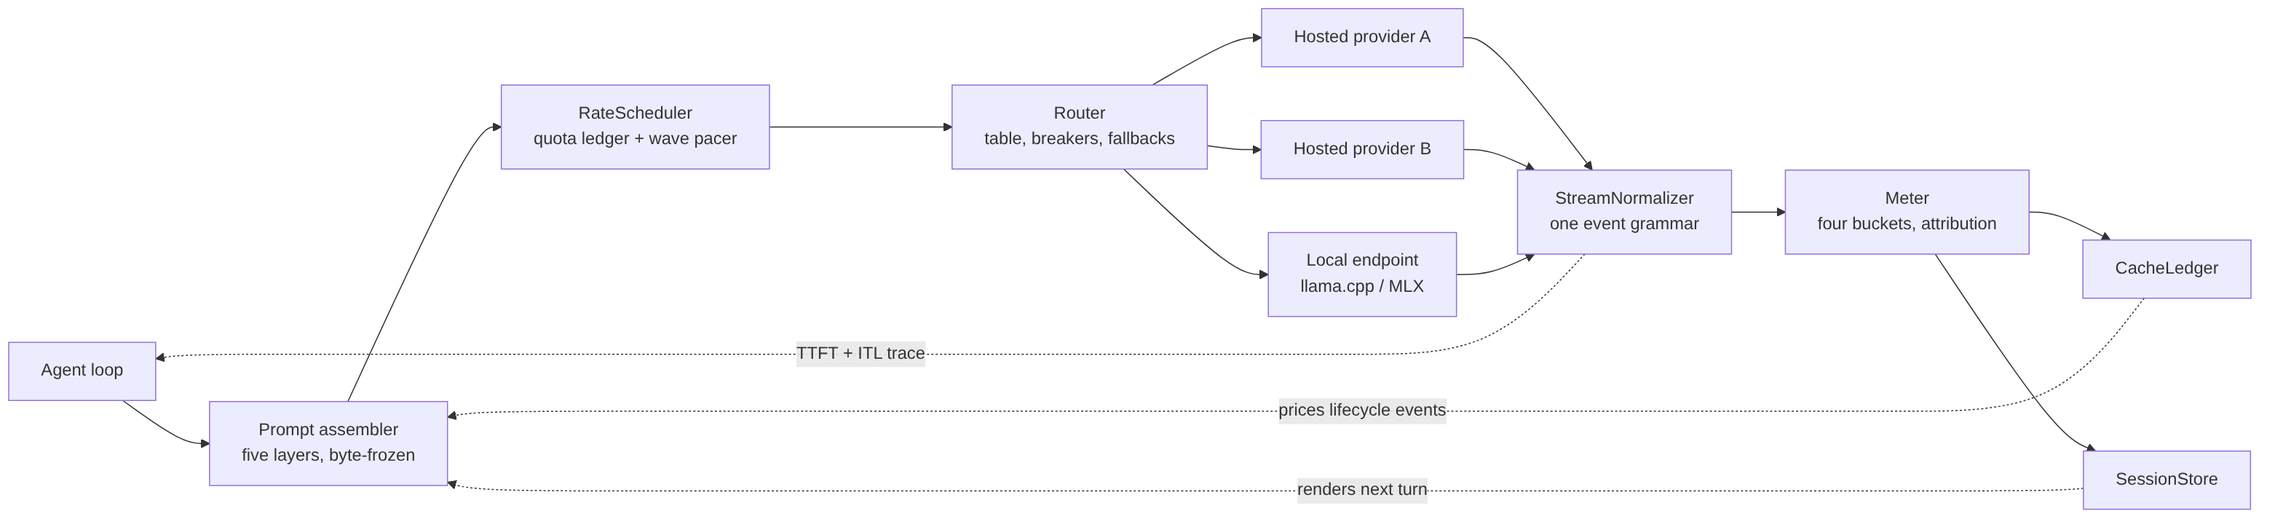
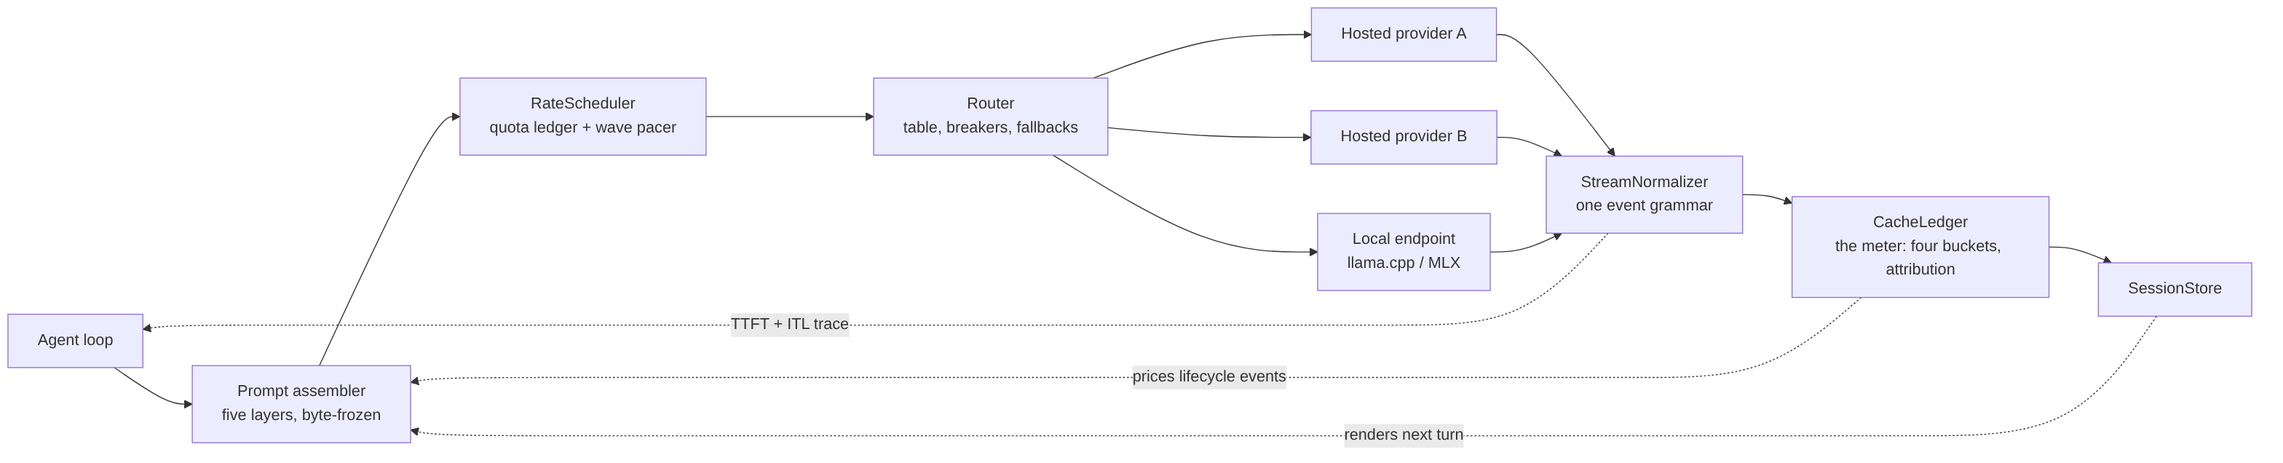
ch18: gate-2 fix pass — sweep complete (P1 bandwidth reconciliation + roster/tracer/attribution fixes)

diff --git a/manuscript/18-your-own-engine-room.md b/manuscript/18-your-own-engine-room.md
@@ -14,7 +14,7 @@ One warning before the wrenches come out. Nothing in this chapter is new machine
 |---|---|---|
 | Inference shim | A thin client-side layer between your agent and every model endpoint | The interpreter who stands between you and three foreign workshops |
 | Normalizer | The component that turns each provider's stream grammar into one internal event set | A mailroom re-addressing every letter to one building |
-| Meter | The component that turns usage fields into priced, attributed events | The taxi's meter, itemized by trip |
+| Meter | The ledger's pricing role — turning usage fields into priced, attributed events | The taxi's meter, itemized by trip |
 | Rate scheduler | The component that holds work locally until quota and pacing allow | The airport ground crew holding planes at the gate, not on the runway |
 | Router | The component that picks an endpoint, watches breakers, and walks fallback chains | The switchboard operator with a list of who is out sick |
 | Session store | The component that renders each turn's prompt from a byte-exact session archive | The court clerk who reads back yesterday's record verbatim |
@@ -31,11 +31,11 @@ Old friends ride along, unpurchased again: the **four-bucket usage events** and 
 
 > **ELI5:** A ship's bridge does not talk to the engines directly. The captain rings a telegraph — "ahead half" — and the engine room decides which engine, which throttle, whether the port one is cooling down, and what the fuel log should record. The bridge never learns the details; it learns the *answer*, plus a receipt. Your agent loop is the bridge. tinyengine is the engine room: one telegraph cable in, one answer and one itemized receipt out, and between them, six duty officers who each watch exactly one gauge.
 
-Here is the whole companion in one sentence: **tinyengine is roughly seven hundred lines of TypeScript — a tracer, a normalizer, a meter, a scheduler, a router, and a session store — that sit between your agent loop and every model endpoint it calls.** Each part was designed in the chapter that needed it, at the size that chapter estimated:
+Here is the whole companion in one sentence: **tinyengine is roughly seven hundred lines of TypeScript — a tracer, a normalizer, a ledger that doubles as the money meter, a scheduler, a router, and a session store — that sit between your agent loop and every model endpoint it calls.** Each part was designed in the chapter that needed it, at the size that chapter estimated (the shipped companion, itemized in Appendix D, lands a little under the sum):
 
 | Instrument | Built in | Lines | Watches one gauge |
 |---|---|---|---|
-| Call tracer | Chapter 2 | ~10 | TTFT, inter-token latency, the identity e2e ≈ TTFT + (N−1) × ITL |
+| Call tracer | Chapter 1 | ~10 | TTFT, inter-token latency, the identity e2e (end-to-end) ≈ TTFT + (N−1) × ITL |
 | StreamNormalizer | Chapter 12 | ~150 | One event grammar: `text_delta`, `tool_call_delta`, `usage`, `stop_reason` |
 | CacheLedger | Chapter 14 | ~130 | Hit rate, write amortization, TTL (time to live) clocks, four-term cost |
 | RateScheduler | Chapter 15 | ~120 | Quota ledgers, token bucket, retry caps, wave pacing |
@@ -55,15 +55,14 @@ graph LR
     E1 --> F[StreamNormalizer<br/>one event grammar]
     E2 --> F
     E3 --> F
-    F --> G[Meter<br/>four buckets, attribution]
-    G --> H[CacheLedger]
+    F --> G[CacheLedger<br/>the meter: four buckets, attribution]
     G --> I[SessionStore]
     F -.->|TTFT + ITL trace| A
-    H -.->|prices lifecycle events| B
+    G -.->|prices lifecycle events| B
     I -.->|renders next turn| B
 ```
 
-Read it as the chapter numbers taught it. The agent hands over an intent — "complete this turn, guarantee tier strict, lane interactive." The **prompt assembler** (the session store's renderer) lays the turn out in the five-layer order chapter 17 froze: tools, system, static context, transcript, volatile tail — with breakpoints placed where chapter 14 put them. The **RateScheduler** checks the request against the per-provider quota ledger chapter 15 built — OpenAI's `max_tokens` reservation, Anthropic's split meters and cache-read exemption, Bedrock's burndown — and if a fanout is running, the wave pacer spaces it. The **router** picks the endpoint from chapter 16's table: weights, guarantee tier, session pinning, breaker states. The endpoint — hosted or, as section 18.4 will argue, your own — streams back in whatever grammar it speaks. The **normalizer** flattens it to the four events; the **tracer** stamps them; the **meter** prices them into four exclusive buckets and attributes the spend; the **CacheLedger** updates the session's cache arithmetic; the **SessionStore** appends the turn and renders the next one. The loop closes.
+Read it as the chapter numbers taught it. The agent hands over an intent — "complete this turn, guarantee tier strict, lane interactive." The **prompt assembler** (the session store's renderer) lays the turn out in the five-layer order chapter 17 froze: tools, system, static context, transcript, volatile tail — with breakpoints placed where chapter 14 put them. The **RateScheduler** checks the request against the per-provider quota ledger chapter 15 built — OpenAI's `max_tokens` reservation, Anthropic's split meters and cache-read exemption, Bedrock's burndown — and if a fanout is running, the wave pacer spaces it. The **router** picks the endpoint from chapter 16's table: weights, guarantee tier, session pinning, breaker states. The endpoint — hosted or, as section 18.4 will argue, your own — streams back in whatever grammar it speaks. The **normalizer** flattens it to the four events; the **tracer** stamps them; the **CacheLedger** — the assembly's money meter — prices them into four exclusive buckets, attributes the spend, and updates the session's cache arithmetic; the **SessionStore** appends the turn and renders the next one. The loop closes.
 
 Three properties make the assembly more than the sum of its parts:
 
@@ -79,7 +78,7 @@ What the assembly is *not* matters just as much. It is not a framework you insta
 
 > **ELI5:** You can cook at a restaurant (a hosted API), or you can cook at home. At the restaurant, the kitchen is enormous, the staff is professional, and the bill arrives per dish. At home, the kitchen is small, you are the staff — and the dish cost is electricity plus groceries, no matter how many plates you serve. Whether home cooking wins depends on how much you cook, how fussy the dishes are, and whether anyone else is allowed to see the ingredients.
 
-The local stack has three names that mean three different things. **llama.cpp** is the runtime: a C/C++ inference engine that runs transformer models on CPUs (central processing units), GPUs (graphics processing units), Apple Silicon, phones. **GGUF** — GPT-Generated Unified Format, the container llama.cpp reads — is a single file holding weights, tokenizer, and metadata, so a model ships as one artifact. **Ollama** is the packaging: model management and an OpenAI-compatible local endpoint on top. And **MLX** — Apple's machine-learning framework — is the Apple-native alternative runtime, tuned for unified memory; as of the Ollama team's announcement, Ollama on Apple Silicon is built on MLX in preview, precisely, they say, to exploit that architecture (Ollama blog, retrieved 2026-08-27).
+The local stack has three names that mean three different things — plus one latecomer. **llama.cpp** is the runtime: a C/C++ inference engine that runs transformer models on CPUs (central processing units), GPUs (graphics processing units), Apple Silicon, phones. **GGUF** — GPT-Generated Unified Format, the container llama.cpp reads — is a single file holding weights, tokenizer, and metadata, so a model ships as one artifact. **Ollama** is the packaging: model management and an OpenAI-compatible local endpoint on top. And **MLX** — Apple's machine-learning framework — is the Apple-native alternative runtime, tuned for unified memory; as of the Ollama team's announcement, Ollama on Apple Silicon is built on MLX in preview, precisely, they say, to exploit that architecture (Ollama blog, retrieved 2026-08-27).
 
 The dial local inference turns first is the **quant ladder** — chapter 9's mathematics, packaged for one machine. A GGUF can hold each tensor in a defined rung of formats (llama.cpp GGUF docs, retrieved 2026-08-27): full floats (F32, F16, BF16), legacy quants (Q4_0 through Q8_0), K-Quants (Q2_K through Q8_K) that mix block sizes to claw back accuracy, I-Quants (IQ1_S through IQ4_NL) that push importance sampling to the lowest bit-widths, and experimental formats (TQ1_0, TQ2_0, MXFP4). The modern default for most users is **Q4_K_M** — applied with a one-line `llama-quantize` call — because it sits near the knee of the size/quality curve. The llama.cpp project's own tables put numbers on the trade (tools/quantize/quantize.cpp, retrieved 2026-08-27):
 
@@ -94,12 +93,12 @@ That is the same story chapter 9 told at fleet scale — 4-bit costs quality poi
 The second dial is the one no local machine can dodge: **decode is bandwidth-bound** (chapter 3's law, arriving at your desk). Every generated token requires reading essentially the whole model from memory once. A 70B model at Q4_K_M is roughly 40 GB of weights; a chip streaming 400 GB/s of unified memory can therefore emit at best about 400 ÷ 40 ≈ 10 tok/s — which is exactly where community measurements land. The ceiling on Apple Silicon is memory *bandwidth*, not memory capacity: this is why the same quant runs twice as fast on an Ultra-class chip with roughly double the bandwidth (community guides and internals write-ups, retrieved 2026-08-27).
 
 > **Apple Silicon community snapshot (approximate, community-measured — not vendor-verified; retrieved 2026-08-27)**
-> - 70B Q4_K_M on M4 Max 128 GB: roughly 20–28 tok/s — the first consumer chip community guides describe as running 70B at "real-time" speeds; ~10–12 tok/s at Q8; ~43 GB of RAM (random-access memory) in use.
+> - 70B Q4_K_M on M4 Max 128 GB: community guides claim roughly 20–28 tok/s — the first consumer chip they describe as running 70B at "real-time" speeds. Treat the top of the range as optimistic: the bandwidth law above says 20–28 tok/s needs roughly 800–1,120 GB/s (derived) — Ultra-class territory — while the same community tables put Max-class chips nearer ~12 tok/s and reserve ~21 for an M4 Ultra. ~10–12 tok/s at Q8; ~43 GB of RAM (random-access memory) in use.
 > - Community-aggregate tables: Llama 3.3 70B Q4_K_M at roughly 12 tok/s (Ollama) to 21 tok/s (MLX on M4 Ultra 192 GB); Mistral 7B Q4_K_M around 20 tok/s on a base M3 with 16 GB.
 > - MLX is community-reported at roughly 15–30% faster than llama.cpp at the same quant on Apple Silicon, with ~10% less memory overhead — treat as order-of-magnitude.
 > - The first peer-quality head-to-head of the local runtimes (MLX, MLC-LLM, Ollama, llama.cpp, PyTorch MPS — arXiv 2511.05502) ran on a Mac Studio M2 Ultra with 192 GB unified memory, measuring TTFT, throughput, latency percentiles, caching, and batching.
 
-Note what the numbers whisper: 20–28 tok/s is a *single stream*. Chapter 5 taught you batching turns spare compute into throughput; a local single-user machine runs batch size one, so the bandwidth floor is the ceiling. Your hosted 70B endpoint serves hundreds of concurrent requests off the same law; your laptop serves one — you.
+Note what the numbers whisper: even the optimists' 20–28 tok/s is a *single stream*. Chapter 5 taught you batching turns spare compute into throughput; a local single-user machine runs batch size one, so the bandwidth floor is the ceiling. Your hosted 70B endpoint serves hundreds of concurrent requests off the same law; your laptop serves one — you.
 
 The local stack also changes two contracts from Part III in your favor, quietly. **Prefix caching is yours, free, and capacity-priced** — chapter 6's self-hosted regime: llama.cpp-style runtimes cache the prompt's KV state on your own silicon, with no provider TTL, no 5-minute shredder, no write premium — but also with no fleet behind it, so a cold start re-prefills on *your* bandwidth. And **no quota exists** — the rate limit is the machine. But every other lesson of this book arrives intact: the serial decode tax (chapter 2), TTFT-then-ITL clocks (chapter 12's client-side measurement, now measuring your own GPU), compaction decisions at long context (chapter 11 — with KV memory pressure arriving far sooner than the context window marketing suggests, per chapter 4's formula). A local engine is not an escape from inference engineering. It is inference engineering with a different landlord.
 
@@ -118,7 +117,7 @@ Now the worked crossover, assumptions stated the way the sources state them:
 
 **A small workload never buys an engine.** Ten million tokens a month at a blended $0.60 per 1M (typical mid-tier open-weight model via a per-token API, 2026) is **$6/month**. A dedicated H100 running 24/7 costs 720 hours × $2.49 ≈ **$1,793/month**. Renting the GPU for a $6 problem is buying the restaurant because you wanted one dinner.
 
-**A busy workload gets close, then argues about utilization.** At one billion tokens a month (a genuinely busy multi-agent deployment), the API bill is 1,000 × $0.60 = **$600/month**; a marketplace A100 at ~$1.49/hr × 720 ≈ **$1,073/month** is still more expensive — *before* you staff it. Run the breakeven the other way (derived): $1,073 ÷ $0.60/1M ≈ 1,790M tokens a month just to tie the API; at a community-typical sustained ~2,000 tok/s aggregate for a 70B-class model (varies with batch size), that is ~895,000 seconds of serving — about **35% of every hour of every day**. The crossover lands where your utilization does: an engine that idles two-thirds of the time is a taxi you bought at taxi prices.
+**A busy workload gets close, then argues about utilization.** At one billion tokens a month (a genuinely busy multi-agent deployment), the API bill is 1,000 × $0.60 = **$600/month**; a marketplace A100 at ~$1.49/hr × 720 ≈ **$1,073/month** is still more expensive — *before* you staff it. Run the breakeven the other way (derived): $1,073 ÷ $0.60/1M ≈ 1,790M tokens a month just to tie the API; at a community-typical sustained ~2,000 tok/s aggregate for a 70B-class model (an H100-class throughput figure — a marketplace A100 sustains less, which raises the breakeven share; throughput varies with batch size), that is ~895,000 seconds of serving — about **35% of every hour of every day**. The crossover lands where your utilization does: an engine that idles two-thirds of the time is a taxi you bought at taxi prices.
 
 So when *does* owning win? Four reasons survive the arithmetic:
 
@@ -158,10 +157,10 @@ Here is the checklist the whole book has been writing, compressed to what you ca
 
 **Limit lines (scheduler):**
 7. Quota ledger per provider matches the documented meters — re-verified against the provider's own pages on the checklist date (chapter 15); rate sheets are dated config.
-8. Retry budget enforced: injected failures show local rejection — chapter 15's ~10% fleet rule — not a zombie loop (chapter 15; chapter 10's MoE peak rule keeps multiplicative budgets small for the same reason).
+8. Retry budget enforced: injected failures show local rejection — chapter 15's ~10% fleet rule — not a zombie loop (chapter 15; chapter 10's mixture-of-experts peak rule keeps multiplicative budgets small for the same reason).
 9. Fanout paced: a 1,000-request test wave leaves with jittered spacing, K-of-N contract attached (chapter 15).
 
-**Money lines (meter):**
+**Money lines (ledger):**
 10. Four-bucket usage identity holds per provider on live traffic (chapter 12's invariants), and daily invoice reconciliation runs — metered spend vs. billed spend, drift taxonomy from chapter 16 attached to any gap.
 11. Price table carries a load date; a repricing shows up as a config diff event, not a bill surprise (chapters 14, 16).
 
@@ -181,11 +180,11 @@ Volume I ended by teaching you to stop wasting the model. This volume's single c
 
 **Every dial has a price.** There is no free latency, no free quality, no free context. Batch and you trade neighbors' TPOT (time per output token) for throughput; quantize and you trade points on a benchmark for bandwidth; cache and you trade prompt flexibility for a tenth-price read; speculate and you trade verifier compute for maybe-tokens; own the engine and you trade a per-token bill for a utilization commitment. "Latency, cost, quality — pick two" was the spine because it is not a slogan; it is the accounting identity of this whole machine, and you can now do the arithmetic on a napkin.
 
-**Instrument everything; trust nothing unmeasured.** The instruments you built — tracer, normalizer, meter, ledger, scheduler, router, store — are not overhead. They are the difference between an agent that works and an agent that *billably* works. The failure modes this book catalogued are all quiet: the cache that silently misses, the variant that silently swaps, the breaker that never trips, the retry loop that bills you for the privilege of failing. Quiet failures need loud instruments.
+**Instrument everything; trust nothing unmeasured.** The instruments you built — tracer, normalizer, ledger, scheduler, router, store — are not overhead. They are the difference between an agent that works and an agent that *billably* works. The failure modes this book catalogued are all quiet: the cache that silently misses, the variant that silently swaps, the breaker that never trips, the retry loop that bills you for the privilege of failing. Quiet failures need loud instruments.
 
 **The engine room will keep changing.** The dated numbers in these pages — prices, quotas, benchmarks, formats — are snapshots, and they will drift. That is why every chapter taught the formula and dated the value. When the rates move, re-run the arithmetic; when a new serving trick ships, ask which law of this book it bends. The laws — serial decode, bandwidth floors, queueing under load, cache as byte-exact asset, tail amplification — have outlived every architecture this book named, and they will outlive the next ones.
 
-Monday morning, do this: wrap one real call with three timestamps (chapter 2, ten lines). Read one bill against the usage fields (chapter 12's invariants). Hash one prompt template and put a breakpoint on it (chapters 6 and 14). That is the whole book in an afternoon — the first three gauge-lines of your own engine room. Then keep going. The machine is not mysterious. It was never mysterious. It was just never opened.
+Monday morning, do this: wrap one real call with three timestamps (chapter 1, ten lines). Read one bill against the usage fields (chapter 12's invariants). Hash one prompt template and put a breakpoint on it (chapters 6 and 14). That is the whole book in an afternoon — the first three gauge-lines of your own engine room. Then keep going. The machine is not mysterious. It was never mysterious. It was just never opened.
 
 ## Where the picture stops
 
@@ -204,13 +203,13 @@ The bridge, the kitchen, the van, the checklist — each earns its keep, and eac
 1. You have a 64 GB unified-memory Mac and want a 70B model locally. Which rung of the ladder, and why? *(Q4_K_M or smaller: at Q4_K_M a 70B is roughly 40 GB of weights — it fits with the OS (operating system) and a KV cache to spare, at community-measured 12–21 tok/s depending on chip. Q8 doubles the footprint past the comfortable envelope and roughly halves the speed, per the same community tables — all figures approximate, community-measured.)*
 2. A chip streams 500 GB/s of unified memory. What single-stream decode ceiling should you expect for an 8B model at Q4_K_M (~4.5 GB)? *(≈ 500 ÷ 4.5 ≈ 110 tok/s — derived from the bandwidth law; prefill and real overheads will shave it, and batching does not help a single user, per chapter 5.)*
 3. Your agent does 100M tokens/month, blended $0.60 per 1M via API. A colleague proposes a dedicated A100 at $1.49/hr instead. Verdict? *(API: 100 × $0.60 = $60/month. GPU: 720 × $1.49 ≈ $1,073/month for the same traffic — 18× the API bill unless the lane also absorbs batch work past the ~35% utilization breakeven. Route the burst to the API; put only a sensitivity- or volume-proven lane on the GPU.)*
-4. Same A100, sustained 2,000 tok/s aggregate. At what utilization does it beat $0.60 per 1M tokens? *(Breakeven spend ≈ $1,073 ÷ $0.60/1M ≈ 1,790M tokens/month; at 2,000 tok/s that is ~895,000 s ≈ 35% of a 30-day month — derived from dated rates; above it the GPU is cheaper per token, below it the taxi wins.)*
+4. Same A100, assume the 2,000 tok/s aggregate from section 18.4. At what utilization does it beat $0.60 per 1M tokens? *(Breakeven spend ≈ $1,073 ÷ $0.60/1M ≈ 1,790M tokens/month; at 2,000 tok/s that is ~895,000 s ≈ 35% of a 30-day month — derived from dated rates; above it the GPU is cheaper per token, below it the taxi wins. The 2,000 figure is H100-class and optimistic for an A100 — a slower real GPU pushes the breakeven share higher.)*
 5. A regulated workload may not leave the building, runs 2M tokens/month, and needs only 8B-class quality. Local or hosted? *(Local — the crossover arithmetic is irrelevant because the routing constraint is sensitivity, not price: the API lane is closed by policy. Run the 8B at Q4_K_M/Q5 class on existing hardware; the eval farm from chapter 9 prices the quality loss before anyone ships.)*
 6. The bill jumped 40% overnight. Nothing in your code changed. Checklist order? *(Lines 10–11 first: metered-vs-billed reconciliation and the price-table diff — a provider repricing is the classic silent culprit and shows up as a dated config event. Then line 5: did cache-read share fall (a provider-side caching change)? Then line 1: did a deployment silently change under an alias? The meter saw it first because the meter sees everything.)*
 
 ## Build it / Break it / Prove it / See it in the wild
 
-**Build it.** The assembly itself — Appendix D owns the full companion guide with the code; this chapter's job is the wiring order. Start with the tracer (ten lines, chapter 1) wrapping one real call. Add the normalizer (chapter 12) so all providers speak one grammar. Add the meter and CacheLedger (chapters 12 and 14) so every event is priced. Add the RateScheduler (chapter 15) so the fleet stops tripping its own quota. Add the router (chapter 16) so an endpoint can fail without failing you. Add the SessionStore (chapter 17) so sessions render byte-exact across days. Then — the only new line this chapter adds — a `local` deployment entry pointing at a llama.cpp or Ollama endpoint with its own dated price row (electricity, amortized), its own breaker (the machine can brown out too), and its own golden-set lane. Roughly seven hundred lines; every one of them specified in an earlier chapter.
+**Build it.** The assembly itself — Appendix D owns the full companion guide with the code; this chapter's job is the wiring order. Start with the tracer (ten lines, chapter 1) wrapping one real call. Add the normalizer (chapter 12) so all providers speak one grammar. Add the CacheLedger (chapter 14, fed by chapter 12's usage events) — the money meter — so every event is priced. Add the RateScheduler (chapter 15) so the fleet stops tripping its own quota. Add the router (chapter 16) so an endpoint can fail without failing you. Add the SessionStore (chapter 17) so sessions render byte-exact across days. Then — the only new line this chapter adds — a `local` deployment entry pointing at a llama.cpp or Ollama endpoint with its own dated price row (electricity, amortized), its own breaker (the machine can brown out too), and its own golden-set lane. Roughly seven hundred lines; every one of them specified in an earlier chapter.
 
 **Break it.** Kill each instrument in turn and watch what fails silently. Stop the meter: run one day with pricing disabled — can anyone tell you what the day cost? Break one wire in the normalizer's finish-reason map to `unknown`: does the agent loop hang on a stop it never heard? Open the router's breakers all at once: does the bypass *log loudly*, or dead-end with a shrug? Point the scheduler's ledger at last quarter's quota sheet while the provider changed meters: what breaks first, the 429s or your forecast? Every silent failure you can produce in staging is one that cannot surprise you in production.
 

diff --git a/PROGRESS.md b/PROGRESS.md
@@ -49,3 +49,4 @@
 - 2026-08-27 — iteration 41 (Gate-2 fix pass, ch15): research/ at 72 files / 71 dated digests (≥60, gap-fill not triggered); manuscript 18/18 + A–F complete, so continued the post-appendiceal Gate-2 queue (ch01–ch14 done in iterations 28–40/prior). Applied all 1 P1 + 6 P2 findings from review/15-rate-limits-are-physics-gate2.md (verdict MINOR, P0=0): (P1 ×3) Bedrock up-front reservation formula corrected to `input + cache-write tokens + max_tokens` in §15.3, §15.6's token-bucket paragraph, and Build it — the taught `input + max_tokens` contradicted the chapter's own AWS-docs worked example (36,000 = 3,000 + 1,000 cache-write + 32,000) and Checkpoint 2's answer (18,500 = 2,000 + 500 + 16,000); (P2) concurrency-cap paragraph re-attributed "chapter 5's memory arithmetic caps sessions per GPU" → chapter 4 (ch5 L139 itself says "Chapter 4's capacity arithmetic, showing up as a scheduling constraint"; ch4's KV budget card owns "sessions per GPU from the capacity formula"); (P2) OpenAI `Retry-After` "when one is computable" → "when present" per the digest's verbatim docs quote; (P2) lever-table row "Bounds amplification at ~3×" → "Bounds worst-case wire requests at the cap (3× at three attempts)" — a 4-attempt cap bounds at 4×, so the row's 2–4 range could not carry a bare 3×; (P2) "as of issue #27823" → "per LiteLLM issue #27823 (snapshot 2026-08-27)" — volatile gateway behavior visibly dated; (P2) AWS expanded at book-wide first use "(Amazon Web Services)" in the quota-sheet box (grep-verified never expanded anywhere in manuscript/); (P2) "cost a tenth of fresh input" in durable prose → "chapter 14's dated sheet prices reads at 0.1× fresh input" — pricing multipliers out of the durable spine per numbers discipline. RIPPLE FIXES beyond the review's named sites (found by grep after applying, per iteration-40 practice): (1) companion/tinyengine/rate-scheduler.ts — the shipped RateScheduler carried the same P1 defect: reserve() booked `input + max_tokens` (35,000 not 36,000 on the chapter's example — the admission decision, under-counted by every cache-write token), and reconcile()'s finalCharge also omitted cache-write (the two omissions coincidentally canceled inside the credit arithmetic, masking both); fixed with a cacheWriteTokens field through reserve/reconcile and matching comments; (2) reconcile() API wart found by the new test — credit() was not now-threaded (wall-clock default poisoned deterministic time), now takes optional now like every other method; (3) manuscript/appendix-c-provider-matrix.md C.4 reservation cell and appendix-d-tinyengine-companion.md §D.6 both restated `input + max_tokens` — both corrected. NEW SMOKE TEST: tests/smoke.ts grew a QuotaLedger block replaying Checkpoint 2 exactly (2,000/500/16,000/10× → reserve 18,500, second reserve refused, reconcile final 10,500, re-credited 8,000 spent and nothing more) — the companion suite now exercises the P1's fixed arithmetic directly. One documented deviation from reviewer literal text: the optional UTC gloss at the "00:00 UTC" quote was NOT added — UTC's book-wide true first use is ch01 L150, already expanded there; a ch15 expansion would duplicate, violating the true-first-use convention (same class as iteration 38's de-duplicated JSON expansion). RESEARCH-DIGEST DIVERGENCE LOGGED (not edited, per the never-edit rule): research/rate-limit-quota-architectures.md's formula line itself says "initially deducts `input + max_tokens`" while its own AWS-docs worked example two lines later deducts input + cache-write + max_tokens — the fix follows the primary-source example; a future research refresh must not re-import the digest's formula-summary omission. Validation: strict tsc build clean (borrowed tsc 5.x from a sibling workspace — npx tsc resolves to a joke package on this host; noted for future iterations); smoke suite green ×5 via tsx + green once via compiled dist; lint MANUSCRIPT OK, 18/18 chapters, 26 files, 112,101 words; EPUB rebuilds clean (SKIP_FIGURES=1: 6.0M, 34/34 mermaid staged, 0 degraded, validate passes; cover.jpg image-size WARNING remains the known benign probe warning; no figures changed this iteration so SKIP_FIGURES is sound). Ch15 now 5,754 words (+20, all correction-bearing: qualifiers, expansions, dated snapshot pointer) on a base logged ~4.2% over the 5,500 concept cap in iteration 19 as content-bearing — logged rather than trimmed, consistent with ch03/ch04/ch09/ch12/ch13/ch14 fix-pass precedent. Gate-2 status: ch01–ch15 findings applied; queue next: ch16, then ch17, ch18, then reflow decision (54 wide lines) per Appendix F.
 - 2026-08-27 — iteration 42 (Gate-2 fix pass, ch16): research/ at 72 files / 71 dated digests (≥60, gap-fill not triggered); manuscript 18/18 + A–F complete, so continued the post-appendiceal Gate-2 queue (ch01–ch15 done in iterations 28–41/prior). Applied ch16 findings from review/16-routing-fallbacks-money-meter-gate2.md (verdict MINOR, P0=0): (P1-2) "lane beats the cache" derivation labels corrected — "reads at 0.3× and writes at 3.75× base" were dollar prices mislabeled as multipliers (0.3× base = $0.90/M would give ≈$88.52, not $79.50); now "reads at $0.30/M and writes at $3.75/M — 0.1× and 1.25× of the $3 base", recomputed before applying ($15.00 + 9,999×$0.00045 + $0.005625 + $60.00 ≈ $79.50, matching the chart endpoint); (P1-3) batch-file fit arithmetic fixed — "roughly 2 KB per request … fits inside one 50,000-request ceiling" fails recomputation (50 runs × 800K input = 40M tokens ≈ 160 MB; at 2 KB ≈ 500 tok/request that is 80,000 requests, over the ceiling; the digest ties ~2 KB only to generic small requests, never to this matrix); now "roughly 1,000 tokens (~4 KB) per request the whole matrix sits at OpenAI's batch-file ceilings (50,000 requests / 200 MB) — split it across two jobs rather than trust the fit"; (P2) RouteLLM commercial comparison un-flipped — digest says "commercial-router comparisons were >40% cheaper" (RouteLLM cheaper than commercial), the chapter had inverted base and subject into "those more than 40% more expensive"; (P2) worksheet latency cell "waits on the 1-in-10,000 tail draw" → "waits on the slowest child of the 10,000" (with p=1% ≈ 100 slow children, the old cell read as a 1/10,000 probability); (P2) 16.6 ELI5 jargon removed per STYLE hard rule — "mostly on cache writes after the Tuesday deploy" → "most of it surcharges for re-sending text it had already seen" ("cache writes"/"deploy" are not in this chapter's Words-before-machinery table); (P2) "≈ 99.99999%" → "≥ 99.99999%" (0.99^10000 ≈ 2.2×10⁻⁴⁴, so the figure is a floor, not an approximation); (P2) `usage-based-routing` description restored RPM per digest "(by cost or TPM/RPM usage)" → "tokens/requests-per-minute"; (P2) dangling "the gateway did not have in 2013" anchor (nothing in 16.2 anchors 2013; LLM gateways did not exist in 2013) → "the resilience canon never had". P1-1 REJECTED AS FALSE POSITIVE, with evidence: the reviewer claimed the quoted handoff "chapter 16's router will consume exactly this ledger" appears nowhere in ch15 — but ch15:64 contains it verbatim as "Chapter 16's router will consume exactly this ledger; chapter 18's `RateScheduler` builds it."; the reviewer's case-sensitive grep for the lowercase phrase missed the sentence-initial capital. Applied the finding's legitimate kernel instead: the quotation's initial letter now matches the source exactly (capital C), so the quote is case-exact verbatim; the reviewer's replacement quote (the 15:202 cooldown-state line, also real) was not needed. RIPPLE FIXES found by grep after applying, per iteration-40/41 practice: the same false-≈ tail-law figure exists at ch15:155 and appendix-b:147 — both now read "≥ 99.99999% (derived)" (the reviewer deferred Appendix B to copyedit; fixed now since it is the identical one-token defect). Grep confirmed no other ripples: RouteLLM appears in no other chapter (Appendix E entry carries no numbers); "1-in-10,000", "2 KB", and the mislabeled multipliers appear nowhere else. Validation: lint MANUSCRIPT OK, 18/18 chapters, 26 files, 112,128 words; EPUB rebuilds clean (SKIP_FIGURES=1: 6.0M, 34/34 mermaid staged, 0 degraded, validate passes; cover.jpg image-size WARNING remains the known benign probe warning; no figures changed this iteration so SKIP_FIGURES is sound). Ch16 now 6,335 words (wc -w; +27 this iteration, all correction-bearing) on a base logged ~11% over the 5,500 concept cap in iteration 20 as content-bearing (six CHAPTER_MAP beats, most of any Part III chapter) — logged rather than trimmed, consistent with precedent. Gate-2 status: ch01–ch16 findings applied; queue next: ch17, then ch18, then reflow decision (54 wide lines) per Appendix F.
 - 2026-08-27 — iteration 43 (Gate-2 fix pass, ch17): research/ at 72 files / 71 dated digests (≥60, gap-fill not triggered); manuscript 18/18 + A–F complete, so continued the post-appendiceal Gate-2 queue (ch01–ch16 done iterations 28–42/prior). Applied all 1 P1 + 5 P2 findings from review/17-cache-aware-harness-design-gate2.md (verdict MINOR, P0=0): (P1) Checkpoint 4 answer key double-counted the first child's preamble read — the child whose request performs the 1.25× write is not also billed a 0.1× read of the same 20K, and the chapter's own 17.5 formula `1.25 + 0.1·(N−1)` (verified against subagent-context-isolation-cache.md) has no read term for child 1; recomputed before applying: first child 1.25·20K write + 6K fresh, other nine 0.1·20K read + 6K fresh each = 25K + 6K + 9 × 8K = 103K-units (was 105K), ratio 325/103 ≈ 3.2× (was ~3.1×); (P2) §17.4 fuzzy money-spine arithmetic "premium buys ten turns' worth of tenth-price reads" (the 0.25× surcharge equals 2.5 tenth-price reads, the whole 1.25× write 12.5 — neither is ten) → "The first hit repays it — one 0.9× discount against the 0.25× surcharge", verified consistent with ch14's own break-even at ch14:71 (N ≥ 0.28 at the 5-minute price, "one reuse already pays the premium"); (P2) Cold-compaction bare "(retrieved 2026-08-27)" → "(Claude Code docs, retrieved 2026-08-27)" — fact re-verified traced to Claude Code docs in both resumption and subagent digests; (P2) untraced vendor attribution "Claude Code's own guidance to its agents — return the finding, not the browsing" → "The subagent rule every harness rediscovers" — re-verified no digest records Claude Code guidance of that form (the compact-summary point appears only as the digest's own harness angle); (P2) possessive typo "(Premium members' survive an hour.)" → "(Premium members' photostats survive an hour.)"; (P2) Build-it prose/code alignment — applied the reviewer's preferred code fix (companion/tinyengine/session-store.ts create() now emits a `template.id + ":static"` breakpoint when staticContext is present, so the shared block's end is marked per 17.5's stated rule; previously only :tools/:system existed and a staticContext-carrying template left the shared block's end unmarked) PLUS the prose signature correction (`spawn(templateId, task)` → `spawn(template, tasks, parent)` with "breakpoints on the template's frozen layers", matching the code's actual signature); the smoke suite's 4-max/leapfrog assertions were traced by hand and then verified live (template with staticContext → [:tools, :system, :static]; without → [:tools, :system]) — green. RIPPLES: Appendix D table session-store.ts shipped-count 113 → 114 (one comment line added); grep confirmed "105K", "3.1× cheaper", "ten turns' worth", "Claude Code's own guidance", and "members' survive" appear nowhere else (remaining "ten turns" hits are ch14's own correct 1-write + 9-reads worked example in ch14/appendix-b/appendix-d; cache-ledger.ts's deploy(templateId) is ch14's unrelated parameter). Validation: strict tsc build clean (borrowed cefr-fe workspace tsc per the iteration-41 note); smoke suite green ×3; lint MANUSCRIPT OK 18/18 chapters, 26 files, 112,150 words; full EPUB rebuild clean with figures (validate-epub.py passes, 6,228,793 bytes, 34/34 mermaid staged, 0 degraded; cover.jpg image-size WARNING remains the known benign probe warning). Ch17 now 6,774 words (wc -w; +21, all correction-bearing) — above the 3,500–6,500 Part IV band on raw wc -w (which counts mermaid blocks and tables) but the gate-2 reviewer's own density check counted ~5,400 prose words, in-band, "no padding found"; logged rather than trimmed, consistent with ch03/ch04/ch09/ch12/ch13/ch14/ch15/ch16 precedent. Gate-2 status: ch01–ch17 findings applied; queue next: ch18 (last of the sweep), then reflow decision (54 wide lines) per Appendix F.
+- 2026-08-27 — iteration 44 (Gate-2 fix pass, ch18 — SWEEP COMPLETE): research/ at 72 files / 71 dated digests (≥60, gap-fill not triggered); manuscript 18/18 + A–F complete, so closed out the post-appendiceal Gate-2 queue's last item (ch01–ch17 done iterations 28–43/prior). Applied all 1 P1 + 6 actionable P2 findings from review/18-your-own-engine-room-gate2.md (verdict MINOR, P0=0; P2-8 report-only): (P1) the M4 Max 70B Q4_K_M "roughly 20–28 tok/s" bullet was falsified by the chapter's own bandwidth law three lines up — the bullet now keeps the community claim but reconciles it: 20–28 tok/s needs roughly 800–1,120 GB/s (labeled derived) = Ultra-class territory, while the same community tables put Max-class chips nearer ~12 tok/s and reserve ~21 for an M4 Ultra; the follow-on "20–28 tok/s is a single stream" sentence re-asserting the raw figure reworded to "even the optimists' 20–28 tok/s"; Checkpoint Q1's existing 12–21 range now agrees with the box; (P2) tracer attribution ×2 fixed "Chapter 2/chapter 2" → Chapter 1 (table row + Monday-morning line), matching ch01:214's ten-line promise, ch08, Appendix D, and the chapter's own closer; (P2) instrument roster made one list — intro now "a ledger that doubles as the money meter" (anchored on ch14:187's own "it is the money meter"), manifesto list six not seven, diagram's Meter+CacheLedger nodes merged into one CacheLedger node mirroring Appendix D's own diagram (re-rendered; pixel-verified; also caught + fixed the dangling `H -.->` feedback edge the merge would have left as a stray auto-created node), walkthrough sentence rewritten to one CacheLedger clause, checklist group header "(meter)"→"(ledger)", vocab-table Meter row re-roled "component"→"the ledger's pricing role", Build-it "Add the meter and CacheLedger"→"Add the CacheLedger … — the money meter —"; (P2) ~2,000 tok/s aggregate re-attributed to H100-class hardware per the digest's crossover assumptions ("a marketplace A100 sustains less, which raises the breakeven share"), extended to Checkpoint Q4's stem ("assume the 2,000 tok/s aggregate from section 18.4") and answer ("H100-class and optimistic for an A100 — a slower real GPU pushes the breakeven share higher"); (P2) "three names" → "three names … — plus one latecomer" (four bold terms follow); (P2) e2e expanded in the table cell; MoE handled as "chapter 10's mixture-of-experts peak rule"; (P2-7) "roughly seven hundred lines" kept per the reviewer's blessed keep-path (Appendix D discloses exact shipped counts; current shipped module total 640 after iterations 41/43) with a reconciliation pointer added at the headline claim ("the shipped companion, itemized in Appendix D, lands a little under the sum"). Documented deviations from reviewer literal text: (a) P1 replacement's "12–16 tok/s" is not digest-attestable — used the digest's own ~12/~21 figures instead; (b) P2-4's "the digest's assumption" dropped — reader-facing "digest" wording banned per ch04/ch11/ch16 lesson; (c) MoE expansion de-nested from the checklist parenthetical. ALSO THIS ITERATION (finding 8 + stale-ledger repairs): book-wide closer-format split (ch01–14 `### Build it` H3 subsections vs ch15–18 bolded paragraphs) flagged as a copyedit-gate item in EDITORIAL_SYSTEM.md's pass log and Appendix F.1; both ledgers' Technical-edit rows updated from stale "ch01 only" to honest PASS (all 18 chapters, verdicts 17 MINOR + 1 MAJOR ch04 resolved); build sizes refreshed 3.4M→6.2M; Appendix F.1's "two release blockers" paragraph now names one (Gate-2 closed; copyedit/proof remains). All digest citations re-verified against research/local-edge-inference.md before applying (H100 attachment of 2,000 tok/s; 12/21 Max/Ultra split; 400÷40≈10 law-reading). Companion code untouched (the CacheLedger already carries the "money meter" role in its header comment) — tsc/smoke not re-run, no-change. Validation: lint MANUSCRIPT OK 18/18 chapters, 26 files, 112,299 words; ch18 mermaid re-render is the only changed figure pair (SVG verified: single CacheLedger node labeled "the meter: four buckets", no stray Meter node, dark-pixel label check 190,035); full build with figures → EPUB OK 6,224,359 bytes, 34/34 mermaid staged, validate-epub.py passes (cover.jpg image-size WARNING remains the known benign probe warning). Ch18 now 5,783 words (wc -w; +122 vs draft, all correction-bearing) — inside the 3,500–6,500 Part IV band. Gate-2 status: ch01–ch18 ALL findings applied — the Gate-2 sweep is COMPLETE (28 finding-sets: ch01 polish + iterations 28–44). Remaining release-gate queue per Appendix F: reflow decision (54 wide lines / --budget 87 fix-or-ratchet), then copyedit (incl. closer-format normalization) and Kindle Previewer pass.

diff --git a/manuscript/appendix-f-kdp-release-checklist.md b/manuscript/appendix-f-kdp-release-checklist.md
@@ -10,13 +10,13 @@ The editorial system behind this book defines gates, not vibes. Here is the hone
 |---|---|---|
 | Architecture | Pass | Chapter map, four parts, capability ladder locked at scaffold; positioning verified against the books corpus — no dedicated inference/serving title appeared in the AI or NLP bestseller nodes reviewed 2026-08-27 |
 | Writer (Gate 1) | Pass, per chapter | 18/18 chapters + prologue carry logged self-reviews (structure, numbers traceability, fixes) in the project progress ledger |
-| Technical edit (Gate 2) | Partial | Chapter 1 reviewed: no blockers, three P1 and two P2 findings recorded and owed fixes; chapters 2–18 owe the same sweep before release |
+| Technical edit (Gate 2) | Pass | All 18 chapters reviewed (findings in review/); every P0/P1/P2 finding applied through the driver fix-passes (final chapter, ch18, closed 2026-08-27); verdicts were 17 MINOR and 1 MAJOR (ch04, resolved) |
 | Code test | Pass | Companion tinyengine type-checks clean under TypeScript 5.9.3; offline smoke suite green across repeated runs (chapter Break-it/Prove-it cases replayed as code) |
-| Build test | Pass | One command produces a validated EPUB (3.4 MB at last build); 34/34 mermaid diagrams render; structural validator passes |
-| Copyedit | Owed | Structural lint passes manuscript-wide; a human-grade copyedit pass is still owed |
+| Build test | Pass | One command produces a validated EPUB (6.2 MB at last build); 34/34 mermaid diagrams render with labels; structural validator passes |
+| Copyedit | Owed | Structural lint passes manuscript-wide; a human-grade copyedit pass is still owed — including the book-wide closer-format normalization (H3 subsections in ch01–14 vs bolded paragraphs in ch15–18) and the reflow decision (54 wide lines) |
 | Final proof | Owed | Conditional by design: commercial upload requires a Kindle Previewer pass on the retail file, which no build script can perform |
 
-Two release blockers therefore predate this checklist: the Gate-2 sweep for chapters 2–18, and the copyedit/proof passes. The checklist below assumes they close. A book that ships with an open P1 finding is a book that ships a correction nobody has written yet.
+One release blocker therefore predates this checklist: the copyedit/proof passes (the Gate-2 sweep closed 2026-08-27). The checklist below assumes it closes. A book that ships with an open P1 finding is a book that ships a correction nobody has written yet.
 
 ## F.2 The book as a product — categories, price, position
 

diff --git a/EDITORIAL_SYSTEM.md b/EDITORIAL_SYSTEM.md
@@ -135,9 +135,9 @@ Manuscript complete 2026-08-27: 18/18 chapters + prologue + appendices A–F,
 |---|---|---|
 | Architecture | pass | CHAPTER_MAP locked at scaffold; books-positioning wedge verified against the 12-digest books corpus (no dedicated inference/serving title in the reviewed bestseller nodes) |
 | Developmental edit | pass (writer gate) | Gate-1 self-review logged per chapter in PROGRESS.md (structure, number tracing, fix lists); structural lint green manuscript-wide, 26 files |
-| Technical edit | partial | Gate-2 review complete for ch01 only (P0=0, P1=3, P2=2 — findings in review/ch01-gate2.md, fixes owed); ch02–18 owe the same sweep; recorded as a release blocker in Appendix F |
+| Technical edit | pass | Gate-2 reviews complete for all 18 chapters (review/); every P0/P1/P2 finding applied via driver fix-passes (ch01–ch04 iterations 28–29 + post-review polish; ch02–ch18 iterations 29–44, one chapter per iteration, citations re-verified against research/ before applying). Verdicts: 17 MINOR, 1 MAJOR (ch04, resolved iteration 28) |
 | Code test | pass | companion/tinyengine: tsc 5.9.3 clean, zero npm deps; offline smoke suite green across repeated runs (chapters' Break-it/Prove-it cases) |
-| Build test | pass | tools/build.sh one command: EPUB OK 3.4M, 34/34 mermaid rendered, validate-epub.py passes, spine/nav carry all appendices |
+| Build test | pass | tools/build.sh one command: EPUB OK 6.2M, 34/34 mermaid rendered (flowchart labels re-rasterized via mermaid-cli after the iteration-34 foreignObject fix), validate-epub.py passes, spine/nav carry all appendices |
 | Visual proof | partial | all figure renders verified in SVG/PNG; open item: reflow check finds 54 overlong lines in 10 files (freezes only at --budget 87) — fix-or-ratchet decision owed before upload |
-| Copyedit | owed | structural lint only so far; human-grade copyedit pass owed |
+| Copyedit | owed | structural lint only so far; human-grade copyedit pass owed. Known items for that pass: book-wide closer-format normalization (ch01–14 use `### Build it` H3 subsections; ch15–18 use bolded paragraphs — flag from ch18 Gate-2; H3 matches the 14-chapter majority); reflow decision (54 wide lines, fix or ratchet --budget) |
 | Final proof | not started | Kindle Previewer pass on the retail file owed; gated on technical-edit sweep, copyedit, and the reflow decision (runbook in Appendix F) |
